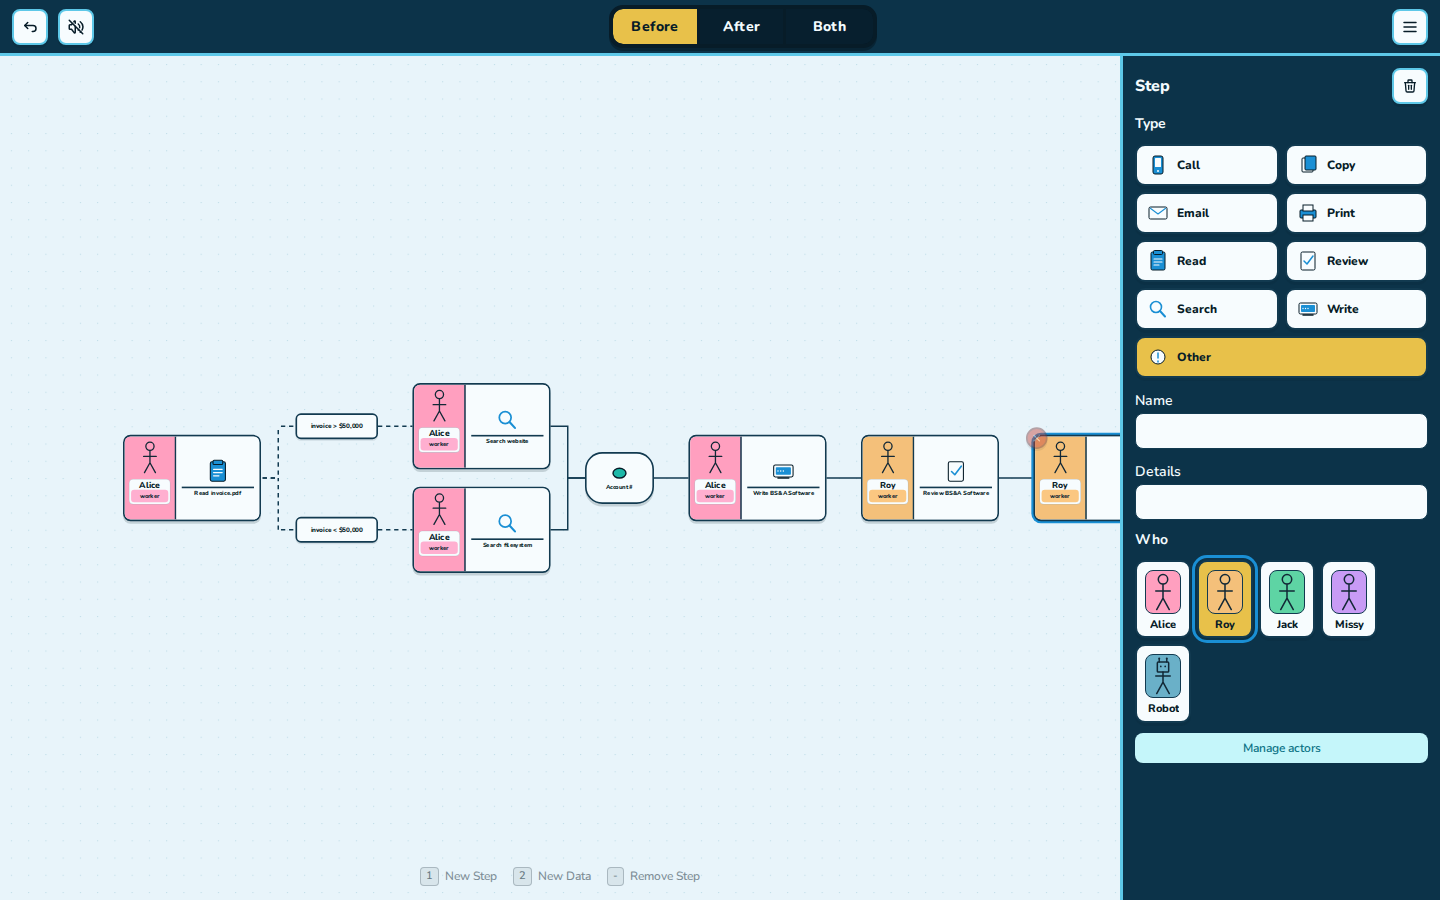
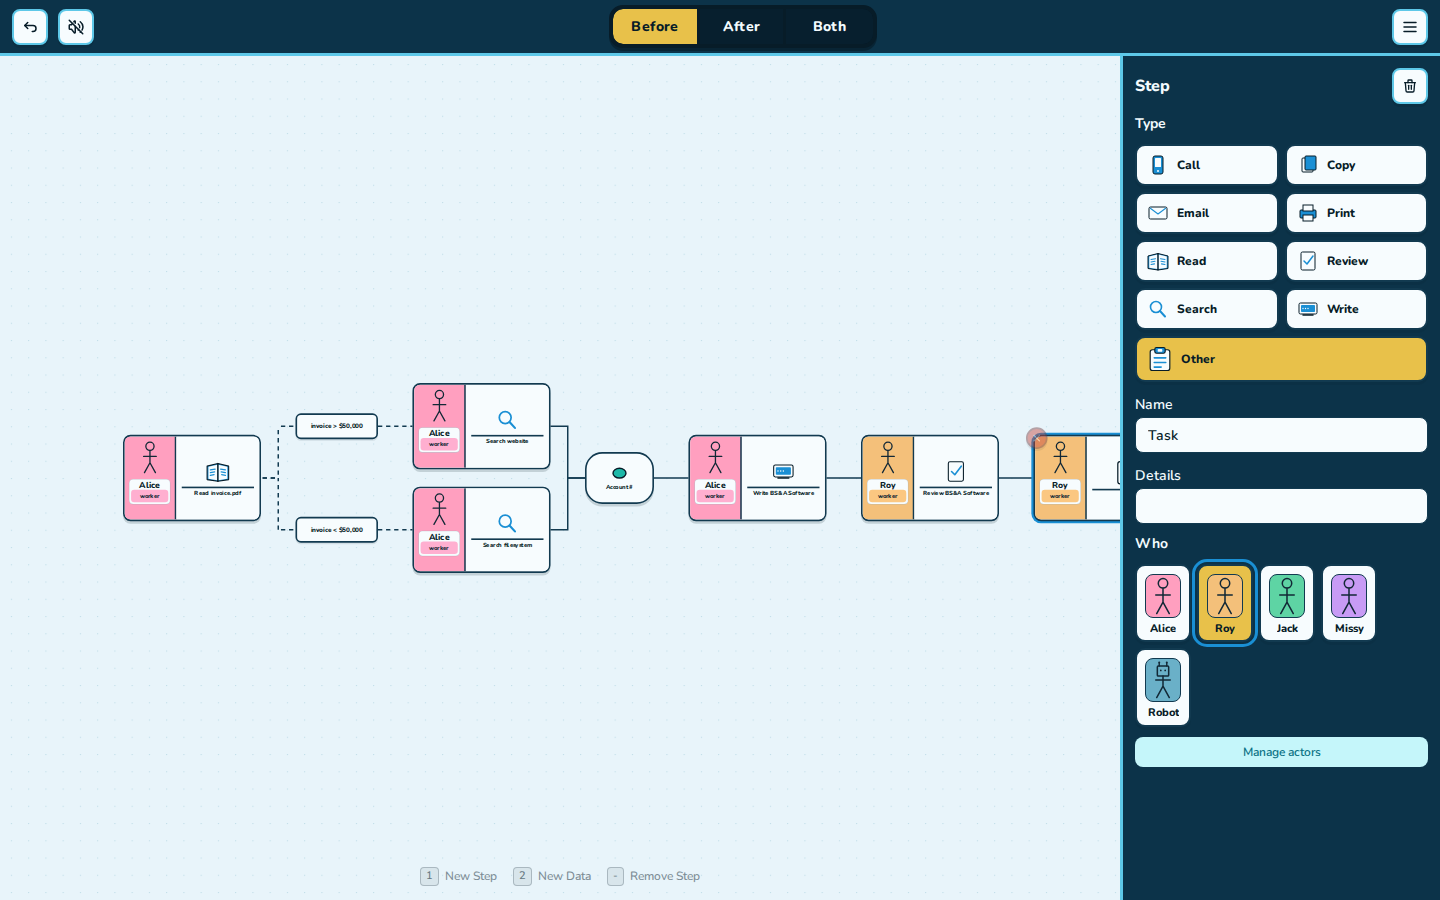
feat(improve-13): inherit Who from upstream Step
Child Steps created from Data now take the nearest parent Step’s Who, so Roy’s Data no longer spawns Alice.

Changed region(s): [[0.7812, 0.3733, 1.0, 0.8711], [0.7812, 0.28, 0.8125, 0.3111], [0.125, 0.4978, 0.1562, 0.5289]]

diff --git a/e2e/improve-13-who-inherit.spec.ts b/e2e/improve-13-who-inherit.spec.ts
@@ -1,5 +1,5 @@
 import { expect, test } from "@playwright/test";
-import { capturePage, loadOakPark, waitForLayout } from "./ready";
+import { capturePage, loadOakPark, pullPlusPreview, waitForLayout } from "./ready";
 
 const EVIDENCE = ".docs/evidence/improve-13-who-inherit";
 
@@ -45,5 +45,67 @@ test.describe("Improvement 13 inherit parent Who", () => {
       "true",
     );
     await capturePage(page, `${EVIDENCE}/child-keeps-parent-alice-1440.png`);
+  });
+
+  test("New board: child of Roy is Roy", async ({ page }) => {
+    await loadOakPark(page);
+    await page.getByRole("button", { name: "Menu" }).click();
+    await page.getByRole("menuitem", { name: "New" }).click();
+    await page.getByRole("button", { name: "Discard" }).click();
+    await expect(page.getByRole("button", { name: "Add Step" })).toBeVisible();
+    await page.getByRole("button", { name: "Add Step" }).click();
+    await waitForLayout(page);
+    await expect(aside(page).getByRole("button", { name: "Who Alice" })).toHaveAttribute(
+      "aria-pressed",
+      "true",
+    );
+    await aside(page).getByRole("button", { name: "Who Roy" }).click();
+    await expect(aside(page).getByRole("button", { name: "Who Roy" })).toHaveAttribute(
+      "aria-pressed",
+      "true",
+    );
+    await page.keyboard.press("1");
+    await waitForLayout(page);
+    await expect(aside(page).getByRole("button", { name: "Who Roy" })).toHaveAttribute(
+      "aria-pressed",
+      "true",
+    );
+    await capturePage(page, `${EVIDENCE}/new-board-child-roy-1440.png`);
+  });
+
+  test("New board: Step off Data under Roy is Roy", async ({ page }) => {
+    await loadOakPark(page);
+    await page.getByRole("button", { name: "Menu" }).click();
+    await page.getByRole("menuitem", { name: "New" }).click();
+    await page.getByRole("button", { name: "Discard" }).click();
+    await page.getByRole("button", { name: "Add Step" }).click();
+    await waitForLayout(page);
+    await aside(page).getByRole("button", { name: "Who Roy" }).click();
+    await page.keyboard.press("2");
+    await waitForLayout(page);
+    await page.keyboard.press("1");
+    await waitForLayout(page);
+    await expect(aside(page).getByRole("button", { name: "Who Roy" })).toHaveAttribute(
+      "aria-pressed",
+      "true",
+    );
+    await capturePage(page, `${EVIDENCE}/new-board-data-child-roy-1440.png`);
+  });
+
+  test("pulling + onto Step from Roy creates Roy", async ({ page }) => {
+    await loadOakPark(page);
+    await page.getByRole("button", { name: "Menu" }).click();
+    await page.getByRole("menuitem", { name: "New" }).click();
+    await page.getByRole("button", { name: "Discard" }).click();
+    await page.getByRole("button", { name: "Add Step" }).click();
+    await waitForLayout(page);
+    await aside(page).getByRole("button", { name: "Who Roy" }).click();
+    await pullPlusPreview(page, "New Step");
+    await waitForLayout(page);
+    await expect(aside(page).getByRole("button", { name: "Who Roy" })).toHaveAttribute(
+      "aria-pressed",
+      "true",
+    );
+    await capturePage(page, `${EVIDENCE}/plus-pull-child-roy-1440.png`);
   });
 });

diff --git a/src/workflow/actors.ts b/src/workflow/actors.ts
@@ -63,8 +63,8 @@ export function aliceId(actors: ActorDto[]) {
 }
 
 /**
- * Empty-board Add Step and a child spawned from Data: last-used Human,
- * else Alice, else the first Human (NA-03).
+ * Empty-board Add Step, or a child with no upstream Step Who: last-used
+ * Human, else Alice, else the first Human (NA-03).
  */
 export function defaultHumanId(
   actors: ActorDto[],
@@ -80,23 +80,44 @@ export function defaultHumanId(
 export type ChildStepWho = { beforeId?: string; afterId?: string };
 
 /**
+ * Who on a Step, or the nearest upstream Step when `startId` is Data (NA-03).
+ */
+function whoFromSourceOrUpstream(doc: WorkflowDoc, startId: string): string | undefined {
+  const seen = new Set<string>();
+  const queue = [startId];
+  while (queue.length) {
+    const id = queue.shift()!;
+    if (seen.has(id)) continue;
+    seen.add(id);
+    const node = doc.nodes.find((n) => n.id === id);
+    if (!node) continue;
+    if (isStepNode(node)) {
+      const who = doc.assignments[id];
+      if (who && doc.actors.some((a) => a.id === who)) return who;
+      return undefined;
+    }
+    const incoming = doc.edges
+      .filter((e) => e.target === id)
+      .slice()
+      .sort((a, b) => (a.source < b.source ? -1 : a.source > b.source ? 1 : 0));
+    for (const e of incoming) queue.push(e.source);
+  }
+  return undefined;
+}
+
+/**
  * A new Before-origin Step hanging off `sourceId` (NA-03).
- * A Step parent stamps its Before Who on both lanes so the child matches
- * the parent instead of last-used Human / Alice. Data (no Who) and a
- * missing assignment fall back to `defaultHumanId`.
+ * A Step parent stamps its Before Who on both lanes. A Data parent walks
+ * incoming Paths to the nearest upstream Step. Otherwise last-used Human /
+ * Alice. After-only Steps still use the default Robot.
  */
 export function whoForChildStep(
   doc: WorkflowDoc,
   sourceId: string,
   lastHumanId?: string | null,
 ): ChildStepWho {
-  const source = doc.nodes.find((n) => n.id === sourceId);
-  if (source && isStepNode(source)) {
-    const parentId = doc.assignments[sourceId];
-    if (parentId && doc.actors.some((a) => a.id === parentId)) {
-      return { beforeId: parentId, afterId: parentId };
-    }
-  }
+  const inherited = whoFromSourceOrUpstream(doc, sourceId);
+  if (inherited) return { beforeId: inherited, afterId: inherited };
   const human = defaultHumanId(doc.actors, lastHumanId);
   return human ? { beforeId: human, afterId: human } : {};
 }

diff --git a/src/state/store.actors.test.ts b/src/state/store.actors.test.ts
@@ -54,7 +54,26 @@ test("spawnBranch from a Step inherits that Step’s Who, not last-used Human (N
   expect(useStore.getState().workflow.after.assignments[childOfRobot]).toBe(robot);
 
   const fromData = useStore.getState().spawnBranch(acct, WorkflowNodeKind.Step);
+  expect(useStore.getState().workflow.assignments[fromData]).toBe(alice);
+});
+
+test("New board: a child of Roy, including off Roy’s Data, is Roy (NA-03)", () => {
+  const s = useStore.getState();
+  s.requestNew();
+  s.confirmReplaceDiscard();
+  const root = useStore.getState().addStep();
+  const roy = useStore.getState().workflow.actors.find((a) => a.name === "Roy")?.id;
+  expect(root).toBeTruthy();
+  expect(roy).toBeTruthy();
+  useStore.getState().assignActor(root, roy!);
+  const child = useStore.getState().spawnBranch(root, WorkflowNodeKind.Step);
+  expect(useStore.getState().workflow.assignments[child]).toBe(roy);
+  expect(useStore.getState().workflow.after.assignments[child]).toBe(roy);
+
+  const data = useStore.getState().spawnBranch(root, WorkflowNodeKind.DataField);
+  const fromData = useStore.getState().spawnBranch(data, WorkflowNodeKind.Step);
   expect(useStore.getState().workflow.assignments[fromData]).toBe(roy);
+  expect(useStore.getState().workflow.after.assignments[fromData]).toBe(roy);
 });
 
 test("Who assigns in both lanes, including a Robot in Before (NA-03, NA-11)", () => {

diff --git a/src/workflow/actors.test.ts b/src/workflow/actors.test.ts
@@ -50,7 +50,7 @@ test("Roy’s fill is honey-apricot, not Script-robot blue", () => {
   expect(HUMAN_PRESETS[1]).toEqual({ name: "Roy", color: "#f4c07a" });
 });
 
-test("whoForChildStep inherits a Step parent’s Who and ignores last-used Human (NA-03)", () => {
+test("whoForChildStep inherits a Step parent’s Who and walks Data to the upstream Step (NA-03)", () => {
   expect(whoForChildStep(doc, "s_read", "h_priya")).toEqual({
     beforeId: "h_ada",
     afterId: "h_ada",
@@ -67,11 +67,29 @@ test("whoForChildStep inherits a Step parent’s Who and ignores last-used Human
           label: "Account",
         },
       ],
+      edges: [{ id: "e1", source: "s_read", target: "d1", label: "", dashed: false }],
     },
     "d1",
     "h_priya",
   );
-  expect(fromData).toEqual({ beforeId: "h_priya", afterId: "h_priya" });
+  expect(fromData).toEqual({ beforeId: "h_ada", afterId: "h_ada" });
+  const orphanData = whoForChildStep(
+    {
+      ...doc,
+      nodes: [
+        ...doc.nodes,
+        {
+          id: "d2",
+          type: WorkflowNodeKind.DataField,
+          position: { x: 40, y: 0 },
+          label: "Orphan",
+        },
+      ],
+    },
+    "d2",
+    "h_priya",
+  );
+  expect(orphanData).toEqual({ beforeId: "h_priya", afterId: "h_priya" });
 });
 
 test("defaultHumanId prefers last-used Human, then Alice, then the first Human (NA-03)", () => {

diff --git a/.docs/handoff.md b/.docs/handoff.md
@@ -1378,3 +1378,27 @@ Corrections in the same chat before the next slice starts get their own short en
 - Known limitations / follow-ups: Playwright evidence PNGs still needed on a machine with Chromium libs. Concurrent tab-size / taffy / cursor WIP remains unstaged.
 - Status: COMPLETE
 - Commit: `feat(improve-16): default Other Steps to Task`
+
+## Improvement 15 — larger + and Path tabs — 2026-09-08
+
+- Starting commit: `4948f4459d2369e9e8d5beab639853aacffa40ff` (`feat(improve-16): default Other Steps to Task`)
+- Working tree at start: not clean. Concurrent taffy/cursor/Other-Task/Who-inherit work and evidence recaptures were left unstaged and are not in this commit.
+- GOAL clauses addressed: CX-01 (hit targets on selected/hover Tile chrome). No amendment — tab pixel size is not in the contract.
+- Library research and decisions: no new runtime dependency. Tabs are 44×44 CSS (were 36×36) with a 24px peek past the tile edge (were 18px) so more of the control sits outside the face. `+` glyph 30px; Path glyph stays 24 inside the larger hit box. X stays 20. Ghosts match the rest tabs.
+- Files changed:
+  - `src/app/styles/tokens.css` (`.plus-tab` / `.path-tab` / ghosts)
+  - `e2e/improve-15-tab-size.spec.ts`
+  - `.docs/IMPROVEMENTS.md`, `.docs/VISUAL_IMPROVEMENTS.md`, this handoff entry
+  - Evidence and user GIF copy
+- Behavior implemented:
+  - Tile create (`+`) and Path-pull tabs are a little larger and peek farther, so they are easier to grab. Pull, X, and Present/Both hide rules are unchanged.
+- Tests and exact results:
+  - `npm run build` — pass (`tsc --noEmit && vite build`; Vite 8.2.2; existing chunk-size warning)
+  - `npm run test:unit` — pass (31 files, 180 tests)
+  - `npm run test:e2e` — pass (102 passed, Chromium, 3 workers, 1.3m)
+- Evidence: `.docs/evidence/improve-15-tab-size/selected-tabs-1440.png` — selected Read tile; 44×44 `+` and Path tabs (1440×900)
+- Earlier-slice defects fixed: none
+- Known limitations / follow-ups: Concurrent WIP from other chats remains unstaged. At fitView zoom the CSS bump is modest on screen.
+- Status: COMPLETE
+- Commit: `feat(improve-15): enlarge tile plus and Path tabs`
+

diff --git a/.docs/IMPROVEMENTS.md b/.docs/IMPROVEMENTS.md
@@ -433,6 +433,8 @@ Correction 2 (2026-09-08): empty paper and `+` / Path tabs use a chunky ink+halo
 
 Correction 3 (2026-09-08): drop the custom black SVG cursors. Tiles use the platform `move` cursor; pan and pull-tabs use platform `grab` / `grabbing`; the tile X stays `pointer`.
 
+Correction 4 (2026-09-08): pan and pull-tabs use a white/black OS-style grab hand (same look as the pointer). Platform `grab` stays blurry on Windows because Chrome only ships a 1× bitmap.
+
 ---
 
 # Improvement 11 — Path Delete menu and hit pad (COMPLETE)
@@ -465,10 +467,12 @@ X, `+`, and Path appear while an editable tile is **hovered or selected** (or th
 
 Approved 2026-09-08. Start only after Improvement 11 correction 1 is COMPLETE. Do not mix into Improvement 12 hover chrome.
 
-When a Before-origin Step is created from another Step (`+` / `1`), the child gets that parent’s Before actor on both lanes. Empty-board Add Step still defaults to last-used Human, else Alice, else the first Human. Spawning from Data uses that fallback. After-only Steps stay the default Robot (BA-07).
+When a Before-origin Step is created from another Step (`+` / `1`), the child gets that parent’s Before actor on both lanes. Empty-board Add Step still defaults to last-used Human, else Alice, else the first Human. A child spawned from Data inherits the nearest upstream Step’s Who. After-only Steps stay the default Robot (BA-07).
 
 Commit: `feat(improve-13): inherit parent actor on child Steps`.  
 Evidence: `.docs/evidence/improve-13-who-inherit/`.
+
+Correction 1 (2026-09-08): Data-parent spawn walks incoming Paths to the upstream Step so a Step created off Roy’s Data is also Roy.
 
 ---
 

diff --git a/.docs/GOAL.md b/.docs/GOAL.md
@@ -200,3 +200,5 @@ Append only, newest last. Format: `- YYYY-MM-DD — <clause IDs> — <decision a
 - 2026-09-08 — P-08, CX-07 — Board cursors are the platform’s standard ones: `move` on editable tiles (including while dragging), `grab` / `grabbing` on empty paper and `+` / Path tabs, `pointer` on controls such as the tile X. Custom drawn cursor images are not used. — approved by user
 - 2026-09-08 — NA-05, NA-10 — A new Other Step (empty-board Add Step, `+` / `1` child, After-only) gets Name “Task” so the tile shows that word. Choosing Type Other on a Step whose Name is empty fills “Task” once; a Name the user already typed is kept. The tile still never prints the word Other. The Other icon is a clipboard (generic work), drawn a little larger than the other Type icons. — approved by user
 - 2026-09-08 — WG-07 — The pulled `+` taffy outline is a 3px `--line` band fully outside the green fill, matching tile and tab borders, so it reads on the dim scrim. A centered hairline on the long edges is not enough. — approved by user
+- 2026-09-08 — NA-03 — A child Step spawned from Data inherits Who from the nearest upstream Step. If there is no upstream Step, last-used Human, else Alice, else the first Human. — approved by user
+- 2026-09-08 — P-08, CX-07 — `move` and `pointer` stay the platform cursors. `grab` / `grabbing` use a white-fill, black-outline hand in the same language as the OS pointer, because Windows has no native grab cursor and Chrome’s bitmap is 1×. — approved by user

diff --git a/.docs/VISUAL_IMPROVEMENTS.md b/.docs/VISUAL_IMPROVEMENTS.md
@@ -111,3 +111,9 @@ Newest last. Issue and resolution stay short. No after-screenshots for gestures.
 - Issue: New Other Steps show only a small circled exclamation and no Name, so the task half is blank.
 - Resolution: Shipped Name “Task” on first Other, with a larger clipboard icon instead of the exclamation.
 - Attachments: [other blank](visual-improvements/2026-09-08-other-task-blank.jpg)
+
+## 2026-09-08 — child Step defaults to Alice
+
+- Issue: Creating a Step from another Step (or from Data under that Step) assigned the default Alice instead of the parent’s actor.
+- Resolution: Child Steps inherit the parent Step’s Who; Data walks to the nearest upstream Step.
+- Attachments: [child defaults Alice](visual-improvements/2026-09-08-child-step-defaults-alice.jpg)
